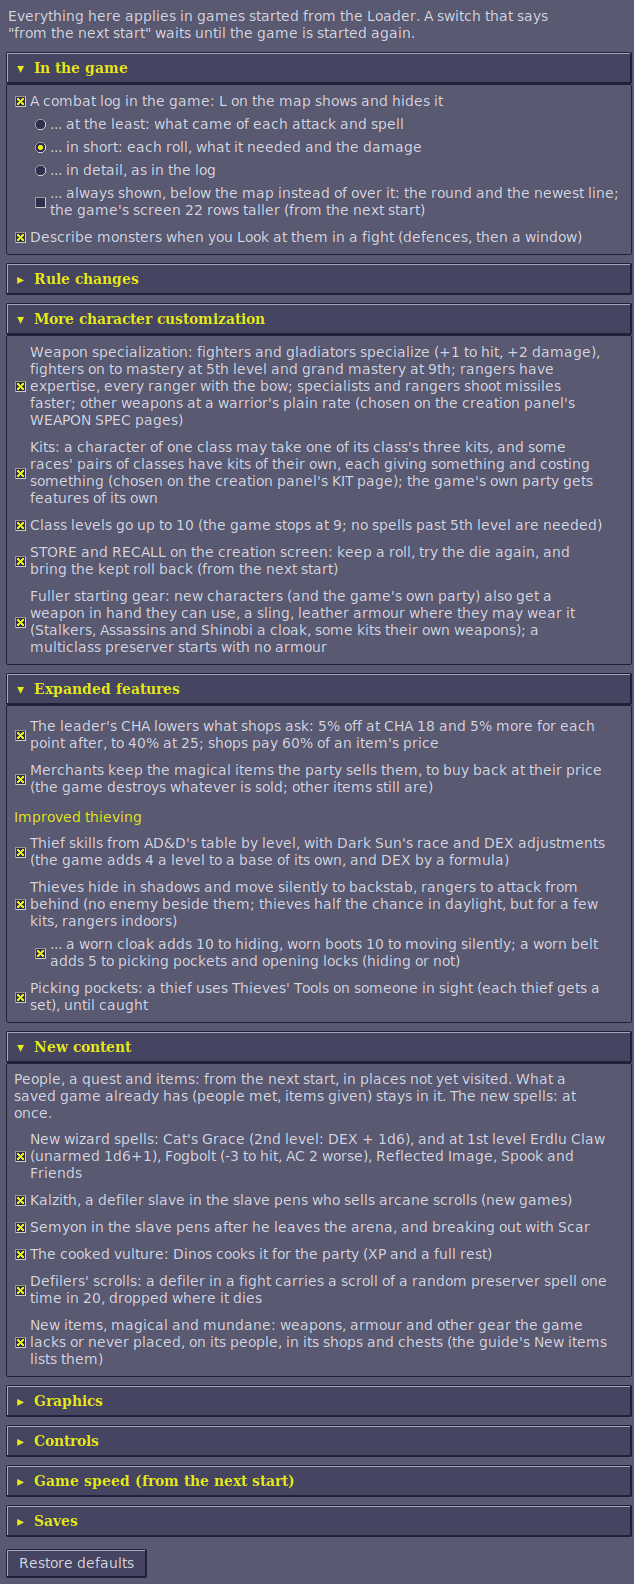
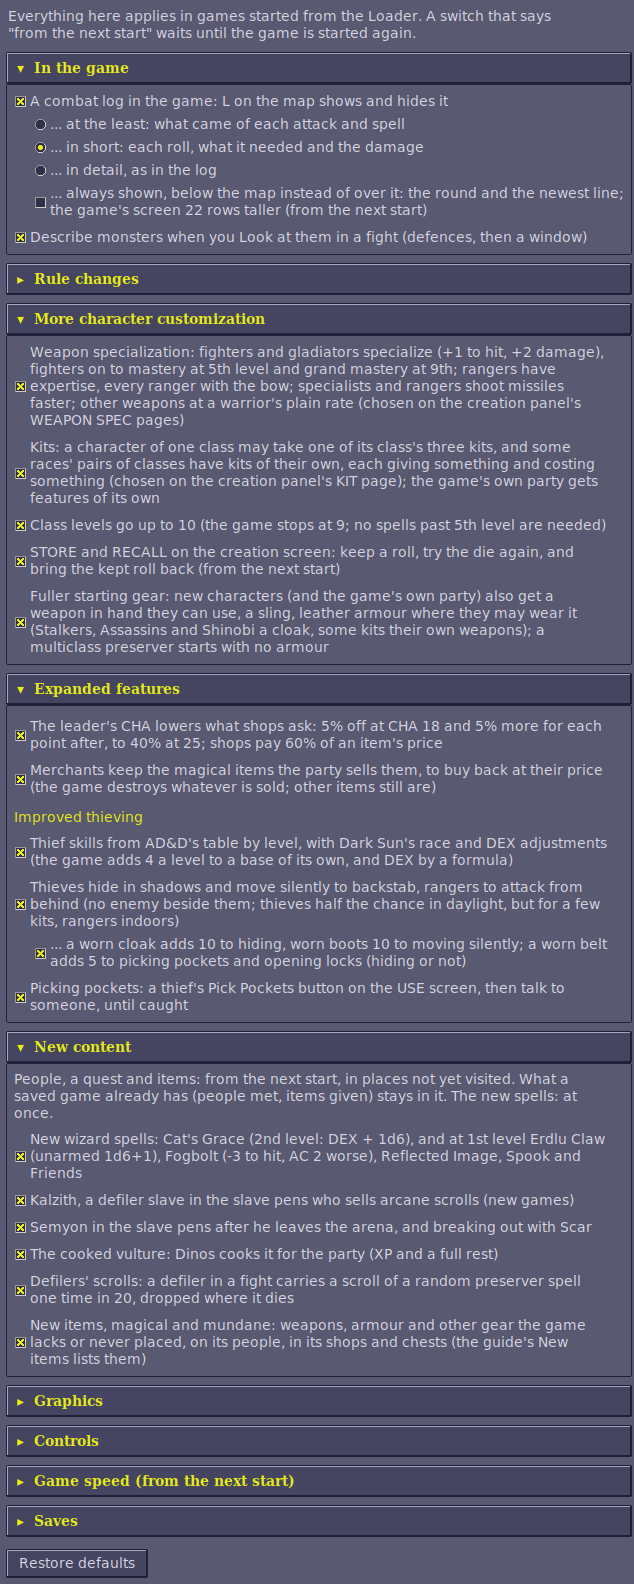
Docs: outdated screenshots retaken
Fogbolt's description with its grey icon (it had Magic Missile's purple),
the Options tab with the Pick Pockets button's wording (it still spoke of
Thieves' Tools), and Cilla's USE screen with her purse. The unused thief
card, which listed Thieves' Tools, is gone.

Claude-Session: https://claude.ai/code/session_01BNiWkhyZSJPYsN3zRrweVp

diff --git a/obsidian-edition/README.md b/obsidian-edition/README.md
@@ -1932,7 +1932,7 @@ with her claws and the game's own chatkcha, and gets nothing more either.
 Cermak and Cilla keep the game's own starting spells: only a character made
 on the creation screen [picks its own](#preservers-first-spells).
 
-![The USE screen in the game: Cilla's 1st-level mage spells, the first named ARMOR in the bar below, WIZ 2/2](docs/default-party-armor.png)
+![The USE screen in the game: Cilla's 1st-level mage spells, the first named ARMOR in the bar below, WIZ 2/2, and her Pick Pockets purse under the spell counts](docs/default-party-armor.png)
 
 ![Gerakis's inventory in the game: a Gythka in his left hand and a Long Sword in his right, 1.5 attacks a round with the sword and one with the gythka in the off hand](docs/default-party-gerakis.png)
 
